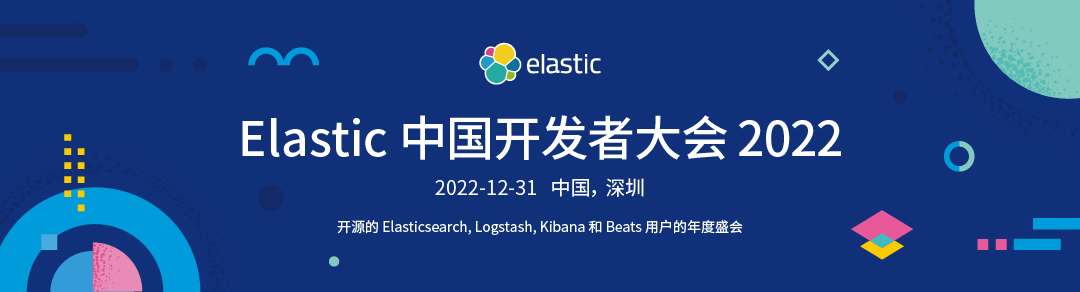
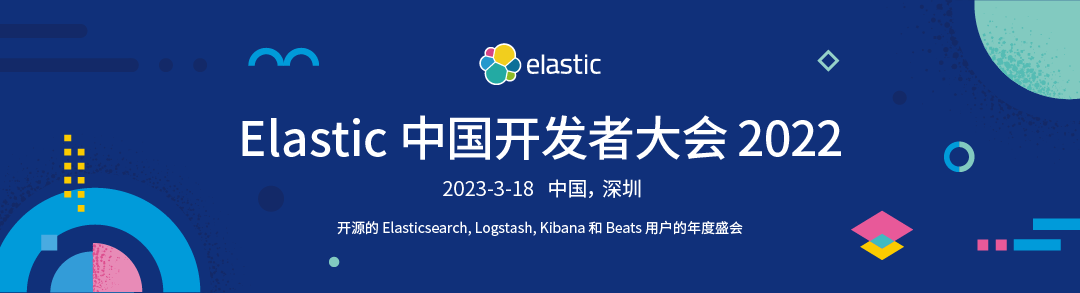
change conf date to 2023-03-18

diff --git a/2022/index.html b/2022/index.html
@@ -81,7 +81,7 @@
     <header id="site-header" class="site-header sz-2018 valign-center">
         <div class="intro">
             <h1>Elastic 中国开发者大会 2022</h1>
-            <h2>时间：2022-12-31 08:00-18:00</h2>
+            <h2>时间：2023-03-18 08:00-18:00</h2>
             <h2>地点：深圳市福田区深圳好日子皇冠假日酒店</h2>
 
             <!--        <a type="button" class="btn btn-primary btn-lg" target="_blank" href="http://elasticsearch.mikecrm.com/uXH61JL">演讲申请</a>-->
@@ -120,12 +120,12 @@
                         年初一个很小的线下聚会，之后每年迅速成长，往年大会的演讲嘉宾有来自 Elastic
                         官方、百度、腾讯、阿里巴巴、360、微博、美团、58、苏宁等众多公司的技术专家，带来过众多精彩的分享，与会听众大多为大数据领域相关的架构师、技术经理与一线开发工程师和运维工程师。
                         <br /><br />
-                        我们本着非盈利目的来举办大会，今年的大会将于2022年12月31日在深圳举行，举办开发者大会的目的是为中国广大的 Elasticsearch
+                        我们本着非盈利目的来举办大会，今年的大会将于2023年3月18日在深圳举行，举办开发者大会的目的是为中国广大的 Elasticsearch
                         开发者提供一个技术交流和学习切磋的地方，汇集业界众多的成功案例，集思广益，发散思维，促进社区和行业的进步。
                         <br /><br />
                         大会将提前半天组织一场线上游戏赛事：《Elastic安全：CTF夺旗游戏》，CTF 是 "Capture the Flag"
                         (夺旗)的缩写，是一种基于计算机的比赛，通过上手实践教授信息安全技能。
-                        赛事时间段：2022-12-30 12:00 ~ 23:59，赛后冠亚军将获得 Elastic 官方提供价值 $400 美金的 Elastic 认证工程师考试券，详情参见 <a
+                        赛事时间段：2023-03-17 12:00 ~ 23:59，赛后冠亚军将获得 Elastic 官方提供价值 $400 美金的 Elastic 认证工程师考试券，详情参见 <a
                             href="./ctf.html">CTF介绍</a>。
                         <br /><br />
                         鉴于当前疫情防控形势，为保障每位参会者健康和安全，根据深圳市相关防疫要求，经大会组委会评估，本次大会防疫措施制定如下：<a href="./guide.html#eg">防疫须知</a>。
@@ -812,7 +812,7 @@
         //     title: '大会延期公告',
         //     timer: 8000,
         //     // title: '大会延期公告',
-        //     // text: '由于1月7日深圳突发报告2例新冠病毒阳性感染者，为保障每位参会者健康和安全，Elastic中国开发者大会组委会经研究评估，决定延期至 2022-12-31 举办。对本次大会延期大会组委会表示抱歉，敬请谅解。',
+        //     // text: '由于1月7日深圳突发报告2例新冠病毒阳性感染者，为保障每位参会者健康和安全，Elastic中国开发者大会组委会经研究评估，决定延期至 2023-03-18 举办。对本次大会延期大会组委会表示抱歉，敬请谅解。',
         //     // confirmButtonText: 'OK',
         // })
     </script>

diff --git a/2022/schedule.html b/2022/schedule.html
@@ -94,7 +94,7 @@
                 <div class="col-md-12">
                     <table class="schedule-pc" cellpadding="0" cellspacing="0">
                         <tr class="schedule-pc-header">
-                            <td>12月30日</td>
+                            <td>3月17日</td>
                             <td colspan="5" class="col-item colspan">Elastic 安全游戏赛事</td>
                         </tr>
                         <tr>
@@ -113,7 +113,7 @@
                 <div class="col-md-12">
                     <table class="schedule-pc" cellpadding="0" cellspacing="0">
                         <tr class="schedule-pc-header">
-                            <td>12月31日</td>
+                            <td>3月18日</td>
                             <td colspan="5" class="col-item colspan">主会场</td>
                         </tr>
                         <tr>
@@ -480,14 +480,14 @@
                 <div class="col-md-12">
                     <div class="m-schedule-list">
                         <div class="m-schedule-section">
-                            <div class="m-schedule-header"><span class="m-schedule-title">【12月30日】Elastic 安全：CTF
+                            <div class="m-schedule-header"><span class="m-schedule-title">【3月17日】Elastic 安全：CTF
                                     夺旗游戏</span></div>
                             <div class="m-schedule-content">
                                 <div class="m-schedule-time"><span>12:00</span></div>
                                 <div class="m-schedule-timeline"></div>
                                 <div class="m-speech-content">
                                     <a class="m-speech-content" href="ctf.html">
-                                        <div class="m-speech-title">CTF 开始（2022-12-30 12:00）</div>
+                                        <div class="m-speech-title">CTF 开始（2023-03-17 12:00）</div>
                                     </a>
                                 </div>
                             </div>
@@ -496,7 +496,7 @@
                                 <div class="m-schedule-timeline"></div>
                                 <div class="m-speech-content">
                                     <a class="m-speech-content" href="ctf.html">
-                                        <div class="m-speech-title">CTF 结束（2022-12-30 23:59）</div>
+                                        <div class="m-speech-title">CTF 结束（2023-03-17 23:59）</div>
                                     </a>
                                 </div>
                             </div>
@@ -504,7 +504,7 @@
                         </div>
 
                         <div class="m-schedule-section">
-                            <div class="m-schedule-header"><span class="m-schedule-title">【12月31日】主会场</span></div>
+                            <div class="m-schedule-header"><span class="m-schedule-title">【3月18日】主会场</span></div>
                             <div class="m-schedule-content">
                                 <div class="m-schedule-time"><span>07:30</span></div>
                                 <div class="m-schedule-timeline"></div>

diff --git a/2022/live.html b/2022/live.html
@@ -142,7 +142,7 @@
             <div class="live-box">
                 <div class="row">
                     <div class="col-md-12">
-                        <h3 class="section-title sub-title">主会场 <small>直播时段：2022-12-31 周六 08:45-12:15</small></h3>
+                        <h3 class="section-title sub-title">主会场 <small>直播时段：2023-03-18 周六 08:45-12:15</small></h3>
                     </div>
                 </div>
                 <div class="row">
@@ -188,7 +188,7 @@
             <div class="live-box">
                 <div class="row">
                     <div class="col-md-12">
-                        <h3 class="section-title sub-title">分会场A <small>直播时段：2022-12-31 周六 13:30-16:30</small></h3>
+                        <h3 class="section-title sub-title">分会场A <small>直播时段：2023-03-18 周六 13:30-16:30</small></h3>
                     </div>
                 </div>
                 <div class="row">
@@ -222,7 +222,7 @@
             <div class="live-box">
                 <div class="row">
                     <div class="col-md-12">
-                        <h3 class="section-title sub-title">分会场B <small>直播时段：2022-12-31 周六 13:30-17:00</small></h3>
+                        <h3 class="section-title sub-title">分会场B <small>直播时段：2023-03-18 周六 13:30-17:00</small></h3>
                     </div>
                 </div>
                 <div class="row">
@@ -268,7 +268,7 @@
             <div class="live-box">
                 <div class="row">
                     <div class="col-md-12">
-                        <h3 class="section-title sub-title">分会场C <small>直播时段：2022-12-31 周六 13:30-16:30</small></h3>
+                        <h3 class="section-title sub-title">分会场C <small>直播时段：2023-03-18 周六 13:30-16:30</small></h3>
                     </div>
                 </div>
                 <div class="row">

diff --git a/2022/guide.html b/2022/guide.html
@@ -93,14 +93,14 @@
         <div class="wrap">
             <div class="item">
                 <img src="/static/images/2021/bg/banner_guide.png">
-                <p>2022 Elastic 中国开发者大会将于2022年12月31日周六在深圳好日子皇冠假日酒店召开。届时将有来自
+                <p>2022 Elastic 中国开发者大会将于2023年3月18日周六在深圳好日子皇冠假日酒店召开。届时将有来自
                     Elastic、Google、腾讯、阿里、字节、vivo等公司22位技术专家为大家带来围绕 Elastic 开源技术的精彩分享。</p>
                 <p>在精彩的演讲之余，大会同时开设了现场幸运抽奖、现场闪电演讲、招聘墙、合影区、照片打印等全方位的互动环节为嘉宾带来丰富的参会体验，等你来玩哦~</p>
             </div>
             <div class="item" id="eg">
                 <div class="title">防疫须知</div>
                 <p>鉴于当前疫情防控形势，为保障每位参会者健康和安全，根据深圳市相关防疫要求，经大会组委会评估，本次 Elastic
-                    中国开发者大会防疫措施制定如下。该防疫措施适用于大会所有参会嘉宾，执行期为2022年12月31日。</p>
+                    中国开发者大会防疫措施制定如下。该防疫措施适用于大会所有参会嘉宾，执行期为2023年3月18日。</p>
                 <p>查看最新的广东省深圳市出行防疫政策（<a
                         href="https://www.gd.gov.cn/gdywdt/zwzt/yqfkzccs/dszc/index.html">https://www.gd.gov.cn/gdywdt/zwzt/yqfkzccs/dszc/index.html</a>）;
                 </p>

diff --git a/2022/ctf.html b/2022/ctf.html
@@ -145,7 +145,7 @@
             <div class="ctf-part">
                 <h3>本次线上 CTF 赛事时间段</h3>
                 <div>
-                    2022-12-30 12:00 ~ 23:59，持续12小时。
+                    2023-03-17 12:00 ~ 23:59，持续12小时。
                 </div>
             </div>
             <div class="ctf-part">
@@ -153,7 +153,7 @@
                 <div>
                     <p><strong>竞赛页面：</strong>https://elasticsecurityctf-apac.ctfd.io/register</p>
                     <p><strong>威胁捕获页面：</strong>https://ela.st/elastic-security-ctf-china</p>
-                    <p>注：访问用户名和密码将会于12月30日中午12点在"Elastic开发者大会2022@深圳"微信群内公布，敬请关注！（需要参加CTF夺旗游戏的小伙伴可以加微信：<strong>lsy965145175</strong>
+                    <p>注：访问用户名和密码将会于3月17日中午12点在"Elastic开发者大会2022@深圳"微信群内公布，敬请关注！（需要参加CTF夺旗游戏的小伙伴可以加微信：<strong>lsy965145175</strong>
                         拉你入群）</p>
                 </div>
             </div>
@@ -206,7 +206,7 @@
                     (注：奖品仅限大会已报名参会用户，非大会报名用户成绩无效)
                 </div>
             </div>
-            <p>本次 CTF 的获奖结果将在12月31日的大会上午颁奖环节宣布。</p>
+            <p>本次 CTF 的获奖结果将在3月18日的大会上午颁奖环节宣布。</p>
             <p>本次活动的最终解释权归 Elastic 中国开发者大会所有。</p>
         </div>
     </section>
